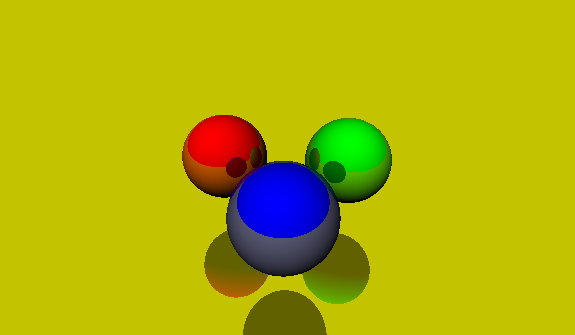
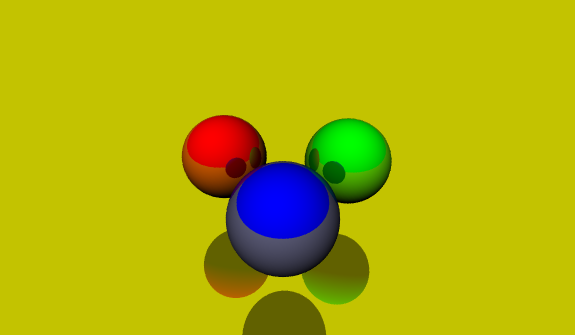
抗锯齿

diff --git a/src/core/Scene.py b/src/core/Scene.py
@@ -7,11 +7,13 @@ from Tracer import *
 from Vector import *
 from Color import Color
 from Camera import Camera
+from Sampler import *
 
 class Scene:
 	def __init__(self):
 		self.color = Color(1,0,0)
 		self.tracer = SimpleTracer(1)
+		self.sampler = RamdomSampler(16)
 
 	def initScene(self, scenePath):
 		if os.path.exists(scenePath) == False:
@@ -38,11 +40,14 @@ class Scene:
 	def render(self):
 		for j in range(0,self.tex.height()):
 			for i in range(0,self.tex.width()):
- 				x = self.pixelWidth*(i-0.5*(self.tex.width()))
- 				y = self.pixelHeight*((self.tex.height()-1- j)-0.5*(self.tex.height()))
- 				ray = self.camera.screenPointToRay(Vector2(x,y))
- 				r = self.tracer.trace(ray, self, 0.000001)
- 				if r != None:
- 					self.tex.setPixel(i,j,r)
+				r = Color.black
+				for n in range(0,self.sampler.numSamples):
+					sp = self.sampler.sampleUnitSquare()
+					x = self.pixelWidth*(i-0.5*(self.tex.width())+sp.x)
+					y = self.pixelHeight*((self.tex.height()-1- j)-0.5*(self.tex.height())+sp.y)
+				
+					ray = self.camera.screenPointToRay(Vector2(x,y))
+					r += self.tracer.trace(ray, self, 0.000001)
+				if r != None:
+					self.tex.setPixel(i,j,r/self.sampler.numSamples)
 		self.tex.save("aass")
-		self.tex.show()

diff --git a/src/core/Sampler.py b/src/core/Sampler.py
@@ -1,9 +1,30 @@
+import random
+
+from Vector import Vector2
+
 class Sampler:
 	def __init__(self, numSamples):
 		self.numSamples = numSamples
+		self.index = 0
 
-	def generateSamples():
+	def sampleUnitSquare(self):
 		pass
 
-	def sampleUnitSquare():
+class RamdomSampler(Sampler):
+	def __init__(self, numSamples):
+		Sampler.__init__(self, numSamples)
+		self.__samples = []
+		for i in range(0, 83):
+			sp = Vector2(random.random(), random.random())
+			self.__samples.append(sp)
+
+	def sampleUnitSquare(self):
+		Sampler.sampleUnitSquare(self)
+		s = self.__samples[int(self.index%len(self.__samples))]
+		self.index += 1
+		return s
+
+class JitteredSampler(Sampler):
+	def __init__(self, numSamples):
 		pass
+

diff --git a/src/core/Camera.py b/src/core/Camera.py
@@ -1,24 +1,7 @@
 import math
 from Vector import Vector3
 from Tracer import Ray
-from Sampler import *
 from Texture import Texture
-from Sampler import *
-
-# class Screen:
-# 	def __init__(self, width, height, pixelWidth, pixelHeight):
-# 		self.__tex = Texture(width, height)
-# 		self.width = width
-# 		self.heigh = height
-# 		self.pixelWidth = pixelWidth
-# 		self.pixelHeight = pixelHeight
-
-# 	def setSampler(self, sampler):
-# 		self.sampler = sampler
-
-# 	def applySampler(self, x, y):
-# 		for i in range(0, self.sampler.numSamples):
-
 
 class Camera:
 	def __init__(self, position, forward, up, d):

diff --git a/src/core/Texture.py b/src/core/Texture.py
@@ -17,6 +17,4 @@ class Texture:
 	def save(self, path):
 		self.pic.save("%s.png"%(path), "PNG")
 
-	def show(self):
-		self.pic.show()
 
